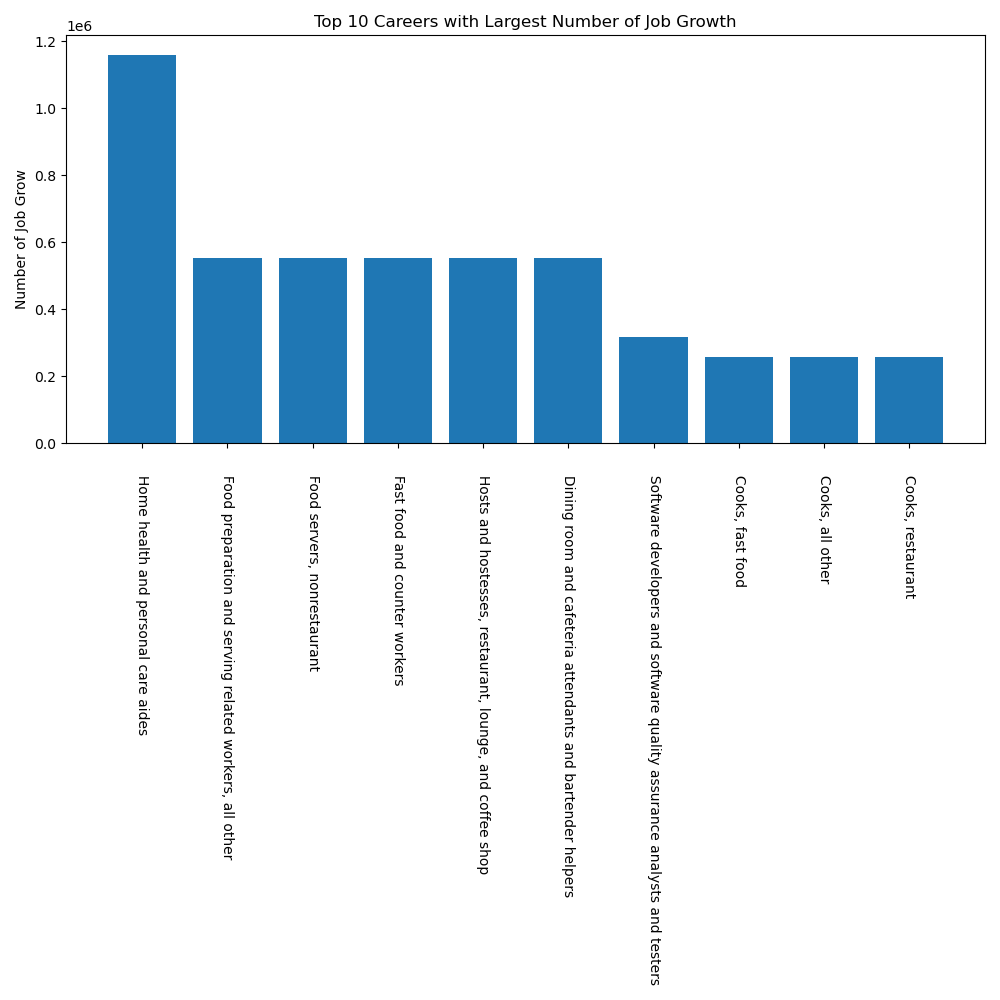
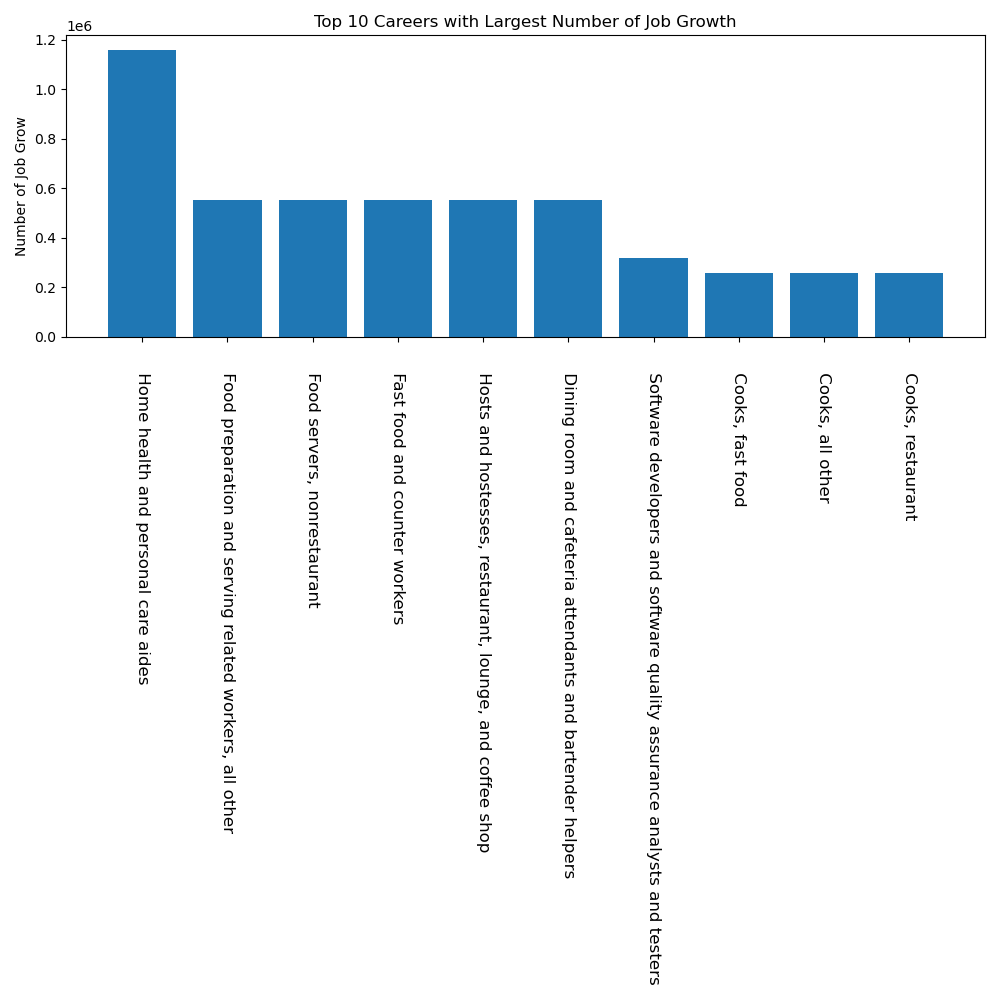
adjust font size for plot label

diff --git a/analysis.py b/analysis.py
@@ -22,7 +22,9 @@ def plot_employment_growth(data):
     plt.xticks(rotation=270)
     plt.title('Top 10 Careers with Largest Number of Job Growth')
     plt.ylabel('Number of Job Grow')
+    plt.tick_params(axis="x", labelsize=12)
     plt.tight_layout()
+    
 
     
 
@@ -79,6 +81,7 @@ def plot_job_outlook(data):
     plt.xticks(rotation=270)
     plt.title('Top 10 Careers with Highest Growth rate ')
     plt.ylabel('Growth Rate %')
+    plt.tick_params(axis="x", labelsize=12)
     plt.tight_layout()
     
     plt.savefig('Job_Outlook_growth_plot')
